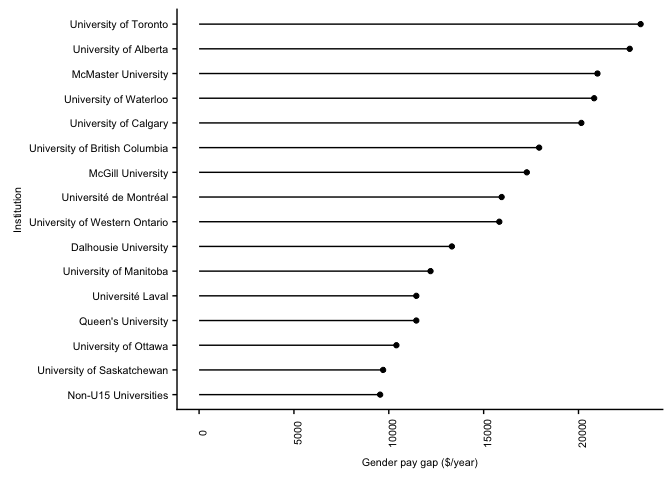
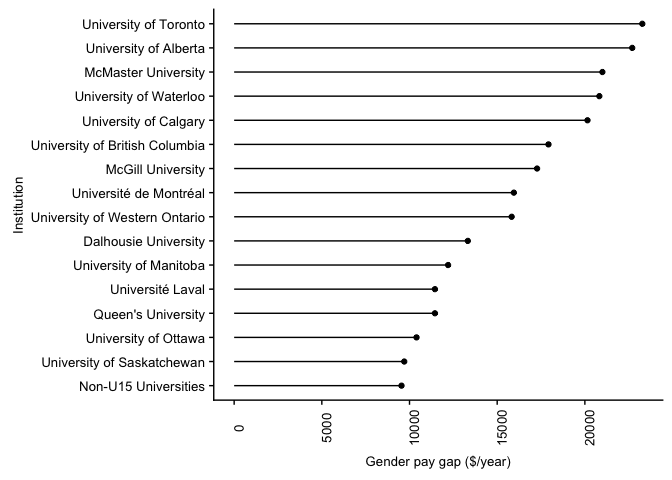
Commit from RStudio

Changed region(s): [[0.0, 0.0312, 1.0, 1.0]]

diff --git a/statscan.md b/statscan.md
@@ -159,8 +159,8 @@ p3 <- ggplot(data=U15red, aes(x=reorder(University, dif), y=as.numeric(dif)))+
                    xend=reorder(University, dif), 
                    y=0, 
                    yend=as.numeric(dif)))+
-      theme(text = element_text(size=8),
-            axis.text = element_text(size=8),
+      theme(text = element_text(size=10),
+            axis.text = element_text(size=10),
             axis.text.x = element_text(angle=90))
 p3
 ```
